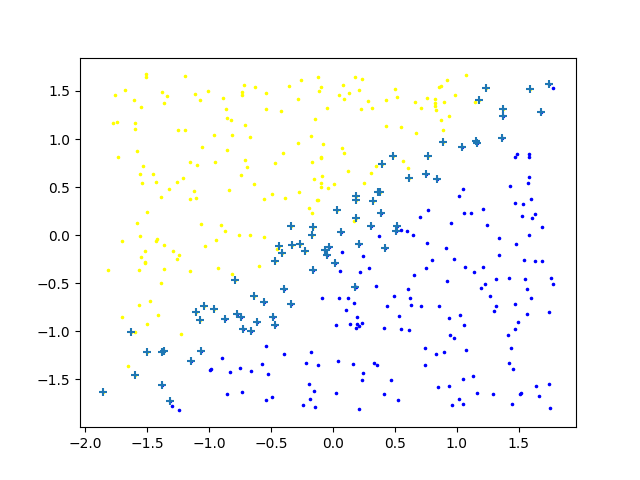
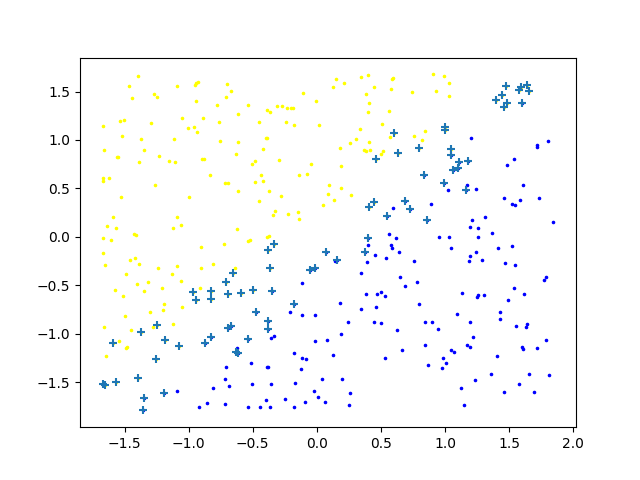
svm ver0.9

diff --git a/src/svm/svm copy.py b/src/svm/svm copy.py
@@ -6,6 +6,51 @@ import random
 from matplotlib import pyplot as plt
 
 class SVM():
+    class selector:
+        def __init__(self, num_sample, C) -> None:
+            self.scan = 'all'
+            self.num_sample = num_sample
+            self.C = C
+            self.idx = numpy.array(list(range(num_sample)))
+            numpy.random.shuffle(self.idx)
+            self.now_ptr = 0
+            self.epsilon = 0.0001
+        def choose(self, a, lab, fx):
+            ptr_from = self.now_ptr
+            hit = 0
+            while self.now_ptr < self.num_sample:
+                self.now_ptr += 1
+                if self.now_ptr == self.num_sample:
+                    self.now_ptr = 0
+                    if self.scan == 'all':
+                        self.scan = 'nonbound'
+                    else:
+                        self.scan = 'all'
+                    numpy.random.shuffle(self.idx)
+                if self.if_violate(a[self.idx[self.now_ptr]], lab[self.idx[self.now_ptr]], fx[self.idx[self.now_ptr]]):
+                    i = self.idx[self.now_ptr]
+                    # E = fx - lab
+                    # E_lr = numpy.abs(E-E[i])
+                    # j = numpy.argpartition(E_lr[:,0],-5)[-5:]
+                    # j = random.choice(j)
+                    j = random.randint(0,self.num_sample-1)
+                    while j == i:
+                        j = random.randint(0,self.num_sample-1)
+                    return (i,j)
+                if self.now_ptr == ptr_from:
+                    hit += 1
+                if hit >=2:
+                    return None
+        
+        def if_violate(self, a_i, lab_i, fx_i):
+            if a_i > 0 and a_i < C and abs(lab_i * fx_i - 1) >= self.epsilon:
+                return True
+            if self.scan=='all' and a_i == 0 and lab_i * fx_i < 1:
+                return True
+            if self.scan=='all' and a_i == self.C and lab_i * fx_i > 1:
+                return True
+            return False
+
     def __init__(self, kernel = 'linear',C = 1, gamma = 1) -> None:
         self.vec = None
         self.lab = None
@@ -17,12 +62,13 @@ class SVM():
         self.epsilon = 0.001
         self.kernel = kernel
         self.gamma = gamma
+        self.sel = None
     def fit(self, feature, label, max_iter = 10000):
         self.vec = feature
         self.lab = label.reshape((-1,1))
         self.getKM()
         self.a = numpy.zeros_like(self.lab, dtype=numpy.float32) * self.C
-        # self.a = numpy.random.rand(self.lab.shape[0], 1)*self.C
+        self.sel = self.selector(self.lab.shape[0], self.C)
         self.SMO(max_iter=max_iter)
         self.simplify()
         return (self.fx > 0) * 2 -1
@@ -64,10 +110,11 @@ class SVM():
         self.fx = numpy.dot(self.KM , self.lab * self.a) + self.b
         # self.fx = (self.fx > 0)*2 - 1
         for stp in range(max_iter):
-            if stp < 10 * self.lab.shape[0]:
-                ij = self.choice(stp=stp % self.lab.shape[0])
-            else:
-                ij = self.choice()
+            # if stp < 10 * self.lab.shape[0]:
+            #     ij = self.choice(stp=stp % self.lab.shape[0])
+            # else:
+            #     ij = self.choice()
+            ij = self.sel.choose(self.a, self.lab, self.fx)
             if ij is not None:
                 self.step(ij[0],ij[1])
             else:
@@ -115,23 +162,29 @@ class SVM():
     def choice(self,stp = None) -> Tuple[int,int]:
         if stp is not None:
             i = stp
-
-            # E = self.fx - self.lab
-            # E_lr = numpy.abs(E-E[i]).reshape([-1])
-            # j = numpy.argsort(E_lr)[-10:]
-            # j = random.choice(j)
-
-            # E = self.fx - self.lab
-            # if E[i] > 0:
-            #     j = numpy.argmin(E.reshape([-1]))
-            # else:
-            #     j = numpy.argmax(E.reshape([-1]))
-
+            E = self.fx - self.lab
+            E_lr = numpy.abs(E-E[i])
+            # j = numpy.argmax(E_lr)
             j = random.randint(0,self.lab.shape[0]-1)
             while j == i:
                 j = random.randint(0,self.lab.shape[0]-1)
 
             return (i,j)
+        
+        idx = numpy.array(list(range(self.lab.shape[0]))).reshape((-1,1))
+        numpy.random.shuffle(idx)
+        for i in idx:
+            if self.a[i] > 0 and self.a[i] < self.C and abs(self.lab[i] * self.fx[i] - 1) >= self.epsilon:
+                break
+            elif self.a[i] == 0 and self.lab[i] * self.fx[i] < 1:
+                break
+            elif self.a[i] == self.C and self.lab[i] * self.fx[i] > 1:
+                break
+        E = self.fx - self.lab
+        E_lr = numpy.abs(E-E[i])
+        j = numpy.argpartition(E_lr[:,0],-5)[-5:]
+        j = random.choice(j)
+        return (i, j)
 
         idx_p = (self.a > 0) * 1
         idx_c = (self.a == self.C) * 1
